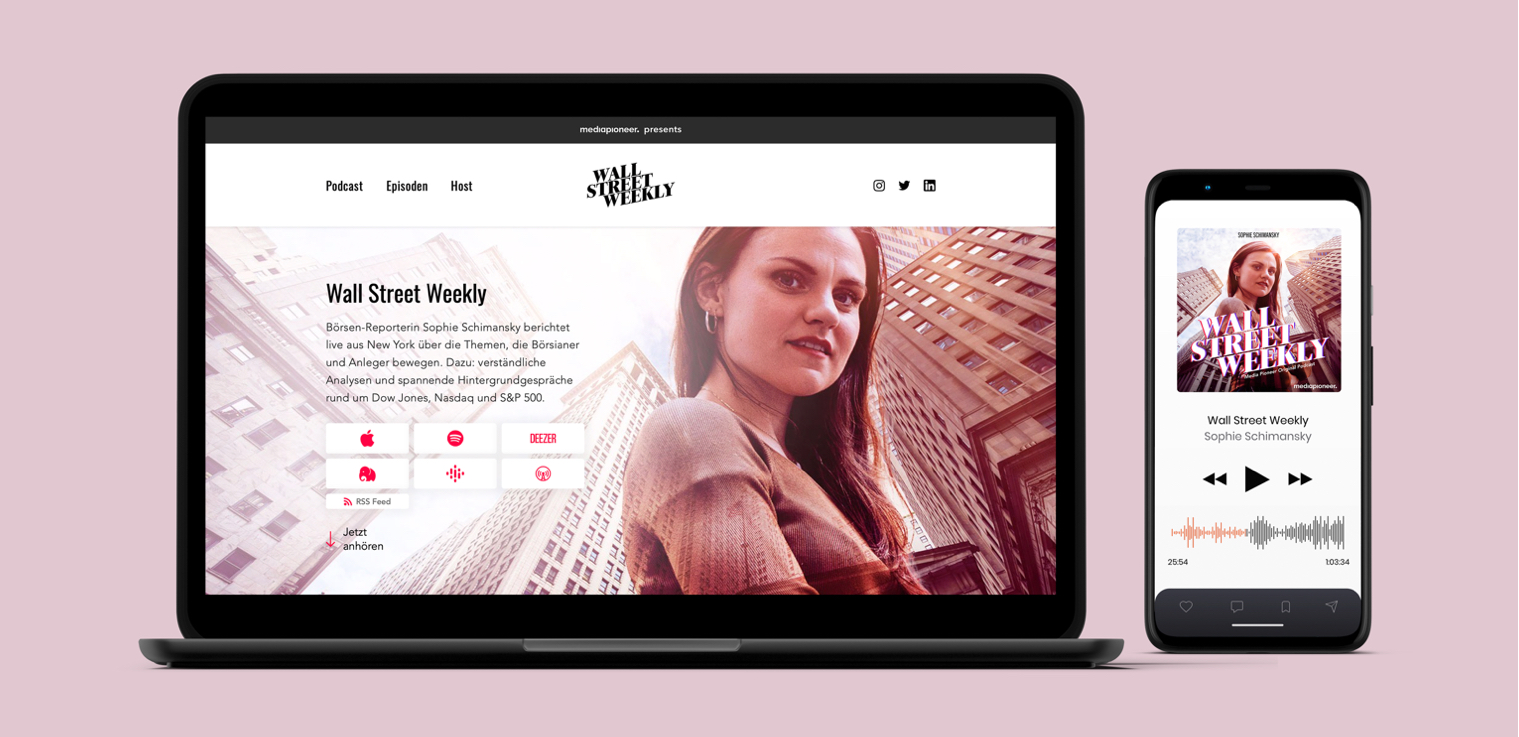
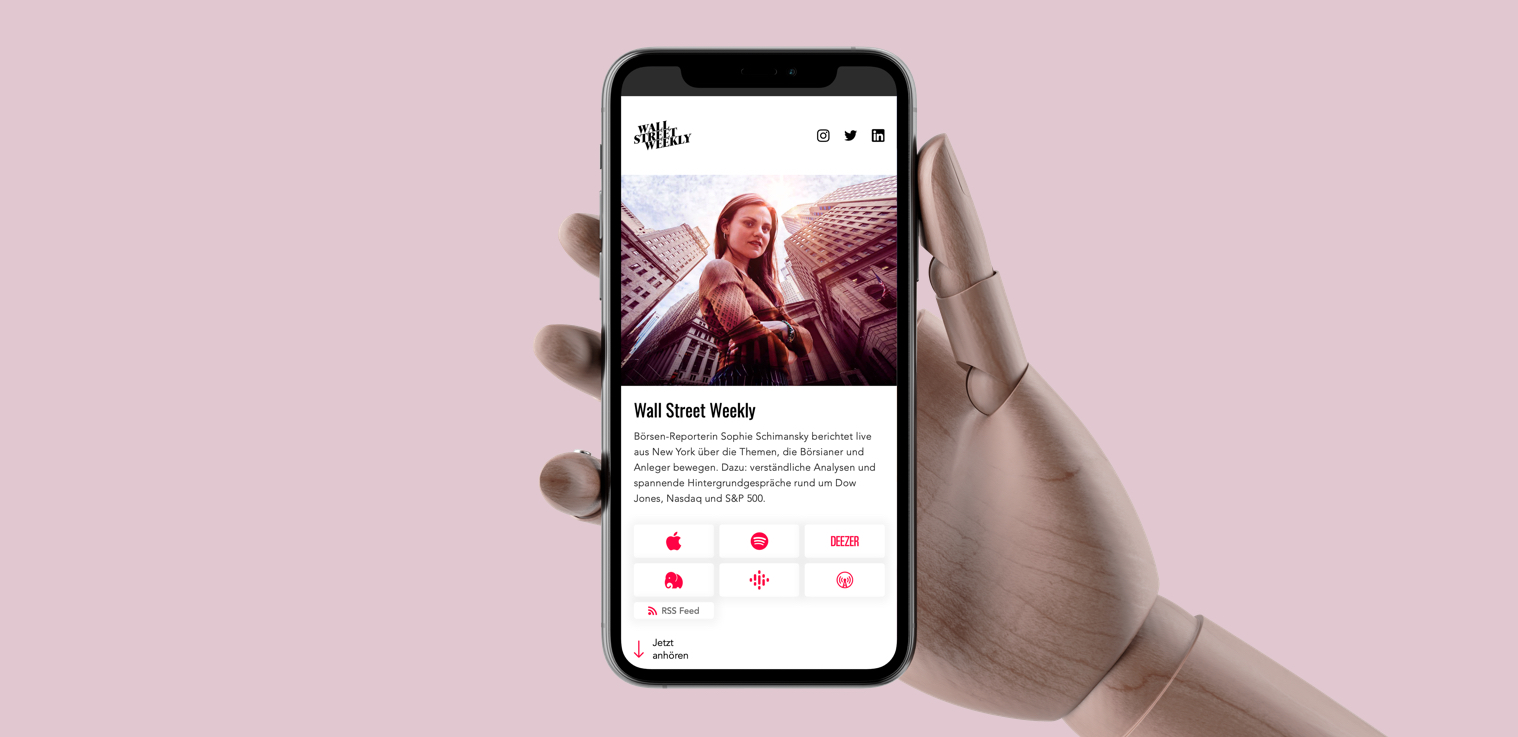
fixes and added project

diff --git a/src/pages/work.js b/src/pages/work.js
@@ -14,6 +14,19 @@ class WorkPage extends React.Component {
         super(props)
         this.projects = [
             {
+                images: this.props.data.wallStreetWeekly,
+                imgAltText: [
+                    "wallStreetWeekly Website inside iPhone showing resposnive home-layout",
+                    "wallStreetWeekly by Mediapioneer Logo ",
+                    "wallStreetWeekly Website in MacBook Pro and iPhone laying on a white table",
+                    "wallStreetWeekly Webdesign progress from first iteration to final state",
+                    "wallStreetWeekly Website in Chromebook and Pixel4"
+                ],
+                company: "Wall Street Weekly",
+                title: "Börsen-Reporterin Sophie Schimansky berichtet live aus New York",
+                link: "https://wall-street-weekly.com",
+            },
+            {
                 images: this.props.data.fuelcast,
                 imgAltText: [
                     "Fuelcast Application in front of a container ship",
@@ -169,6 +182,16 @@ class WorkPage extends React.Component {
 }
 export const query = graphql`
     query {
+        wallStreetWeekly: allFile(
+            filter: { relativeDirectory: { eq: "work/wallStreetWeekly" } }
+            sort: { fields: name }
+        ) {
+            edges {
+                node {
+                    ...ProjectImagesFragment
+                }
+            }
+        }
         fuelcast: allFile(
             filter: { relativeDirectory: { eq: "work/fuelcast" } }
             sort: { fields: name }

diff --git a/src/components/SingleProject.js b/src/components/SingleProject.js
@@ -10,7 +10,7 @@ import "../theme/carousel.css"
 
 const Project = styled.div`
     max-width: 1168px;
-    margin: 0 auto;
+    margin: 0 auto 60px;
 
     div > button {
         visibility: hidden;
@@ -36,7 +36,7 @@ const TextContainer = styled.div`
     margin-bottom: 20px;
     max-width: 1168px;
     h2 {
-        margin-bottom: var(--space-s);
+        margin-bottom: 15px;
     }
     @media (min-width: 1216px) {
         padding: 24px 0;
@@ -57,7 +57,7 @@ const Company = styled.span`
 `
 
 const SingleProject = props => (
-    <Project data-sal="slide-up" data-sal-delay="75" data-sal-easing="ease-in">
+    <Project>
         <Carousel
             autoPlay={false}
             showThumbs={false}

diff --git a/src/components/Button.js b/src/components/Button.js
@@ -9,6 +9,7 @@ const MoveRight = keyframes`
 
 const StyledButton = styled.a`
     text-decoration: none;
+    font-weight: 600;
     color: ${props =>
         props.white ? "var(--color-white)" : "var(--color-primary)"};
     margin-bottom: var(--space-s);
@@ -32,7 +33,8 @@ const StyledButton = styled.a`
     }
 
     :hover {
-
+        color: ${props =>
+            props.white ? "var(--color-white)" : "var(--color-black)"};
         background: ${props =>
             props.primary ? "none" : "var(--color-accent-light)"};
         border-color: ${props =>

diff --git a/src/components/HeroProject.js b/src/components/HeroProject.js
@@ -28,9 +28,7 @@ class HeroProject extends React.Component {
 
     render() {
         return (
-            <div data-sal="slide-up"
-            data-sal-delay="100"
-            data-sal-easing="ease-in">
+            <div>
                 {/* <SingleProject
                     img={this.projects[0].images}
                     imgAltText={this.projects[0].imgAltText}

diff --git a/src/components/StyledLink.js b/src/components/StyledLink.js
@@ -9,8 +9,8 @@ const MoveRight = keyframes`
 
 const StyledLinkInternal = styled(Link)`
     text-decoration: none;
-    color: ${props =>
-        props.white ? "var(--color-white)" : "var(--color-gray-dark)"};
+    font-weight: 600;
+    color: var(--color-primary);
     margin-bottom: var(--space-s);
     margin-right: var(--space-s);
     width: 100%;

diff --git a/src/components/H1Header.js b/src/components/H1Header.js
@@ -20,7 +20,7 @@ const StyledSection = styled.section`
 `
 
 const H1Header = props => (
-    <StyledSection data-sal="slide-up" data-sal-delay="0" data-sal-easing="ease-in">
+    <StyledSection data-sal="fade" data-sal-delay="0" data-sal-easing="ease-in">
         <h1>
             {" "}
             {props.mainline} <br />

diff --git a/src/components/StandardLayout.js b/src/components/StandardLayout.js
@@ -22,6 +22,7 @@ const App = styled.div`
 const Main = styled.div`
     z-index: 0;
     position: relative;
+    overflow: hidden;
     @media (min-width: 834px) {
         margin-top: 80px;
     }
